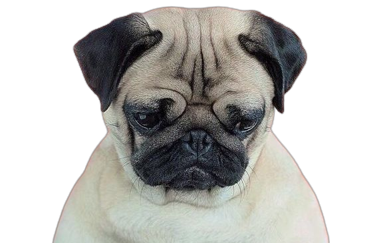
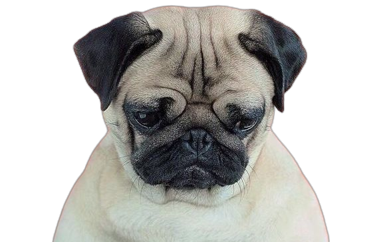
Imagens do carrossel corpo clínico
img 09 - João
img 10 - Lara
img 11 - Nicolas

diff --git a/GERAL/Projetos Atuais/Frontend/templades - Lara/html/index.html b/GERAL/Projetos Atuais/Frontend/templades - Lara/html/index.html
@@ -122,13 +122,13 @@
                     <input type="radio" name="radio-btn" id="radio4">
 
                     <div class="slide first">
-                        <img src="../img/paulinho.png" id="img-corpo" alt="">
+                        <img src="../img/lara-removebg-preview.png" id="img-corpo" alt="">
                     </div>
                     <div class="slide">
-                        <img src="../img/paulinho.png" id="img-corpo" alt="">
+                        <img src="../img/joão-removebg-preview.png" id="img-corpo" alt="">
                     </div>
                     <div class="slide">
-                        <img src="../img/paulinho.png" id="img-corpo" alt="">
+                        <img src="../img/nicolas-removebg-preview.png" id="img-corpo" alt="">
                     </div>
                     <div class="slide">
                         <img src="../img/paulinho.png" id="img-corpo" alt="">
